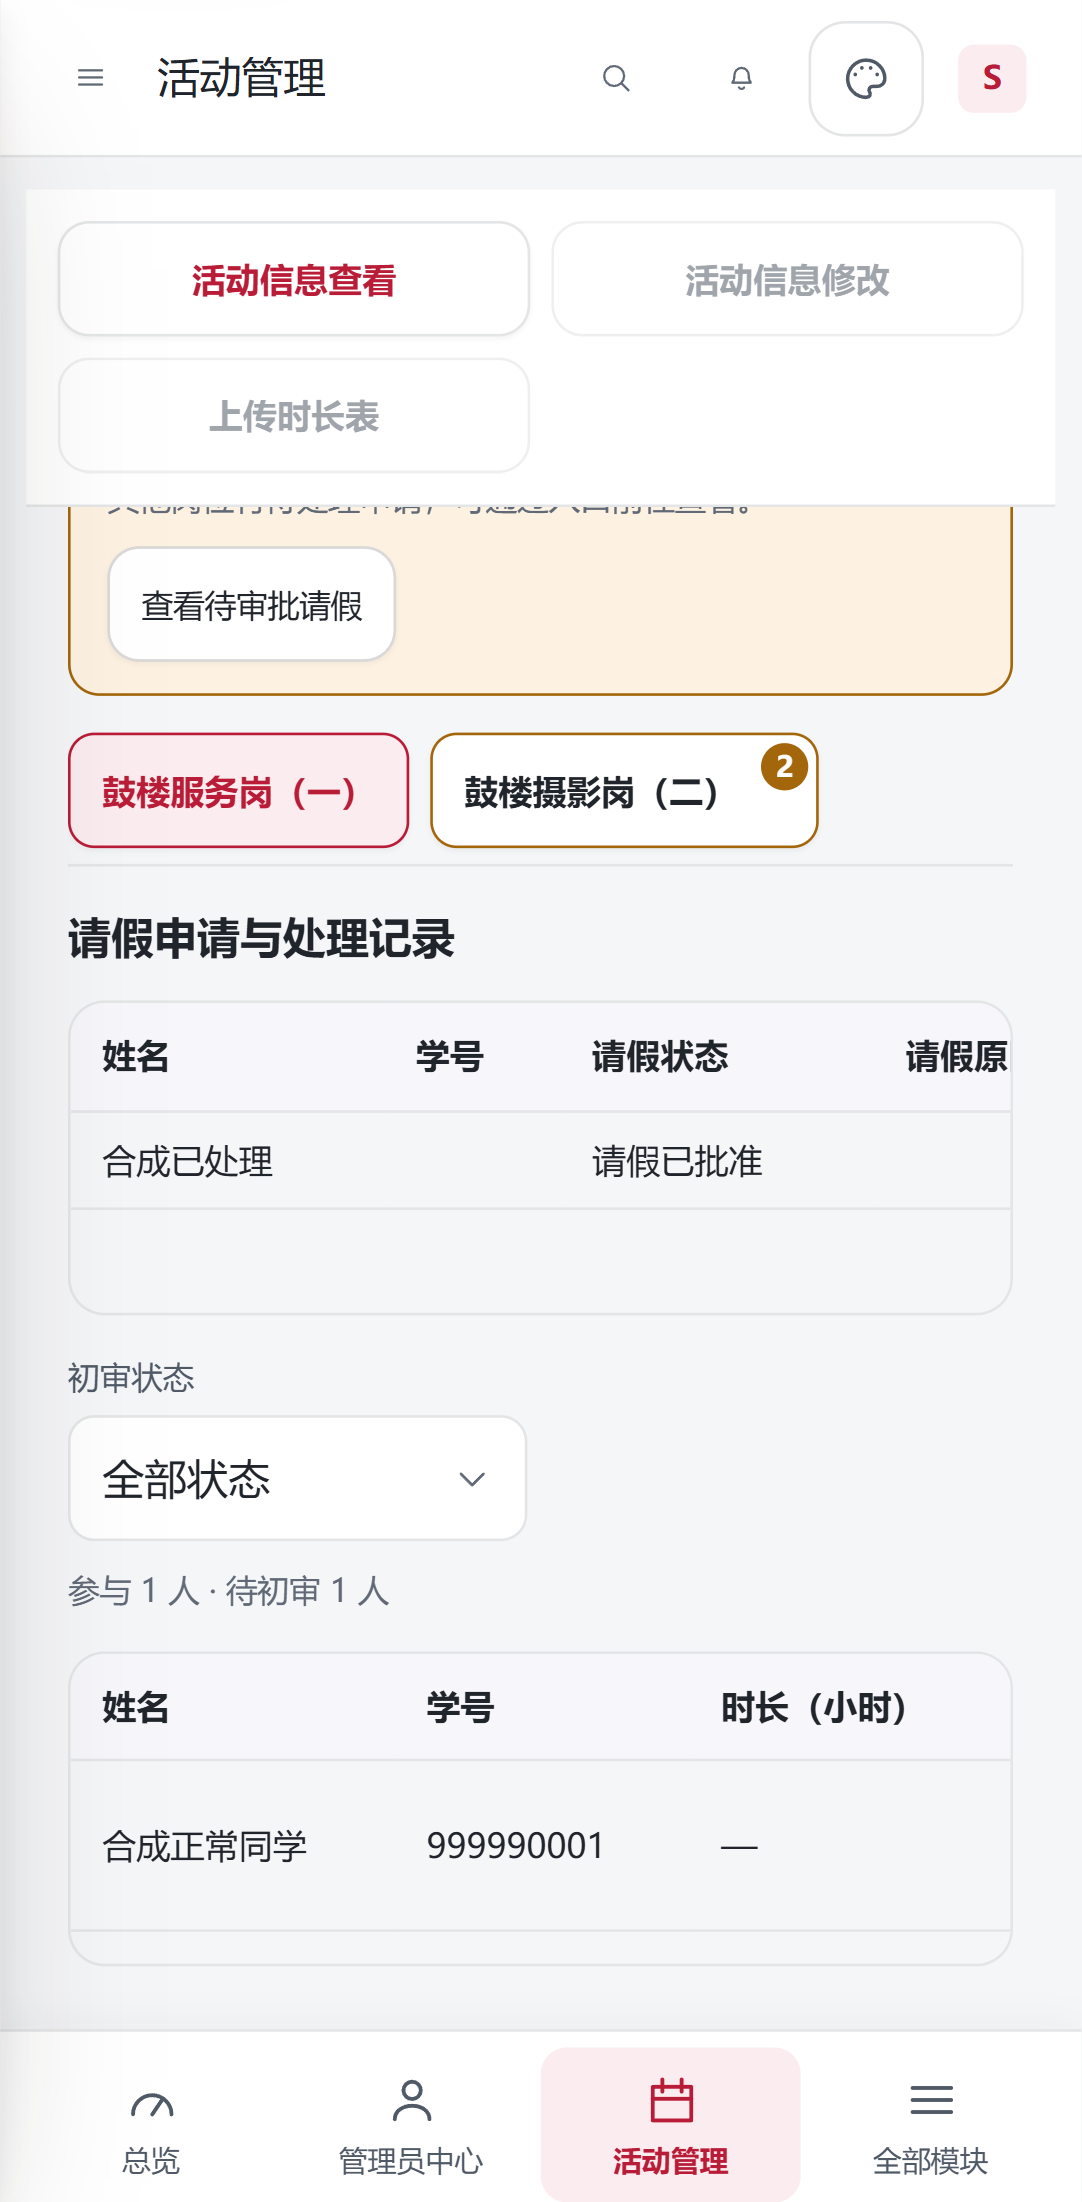
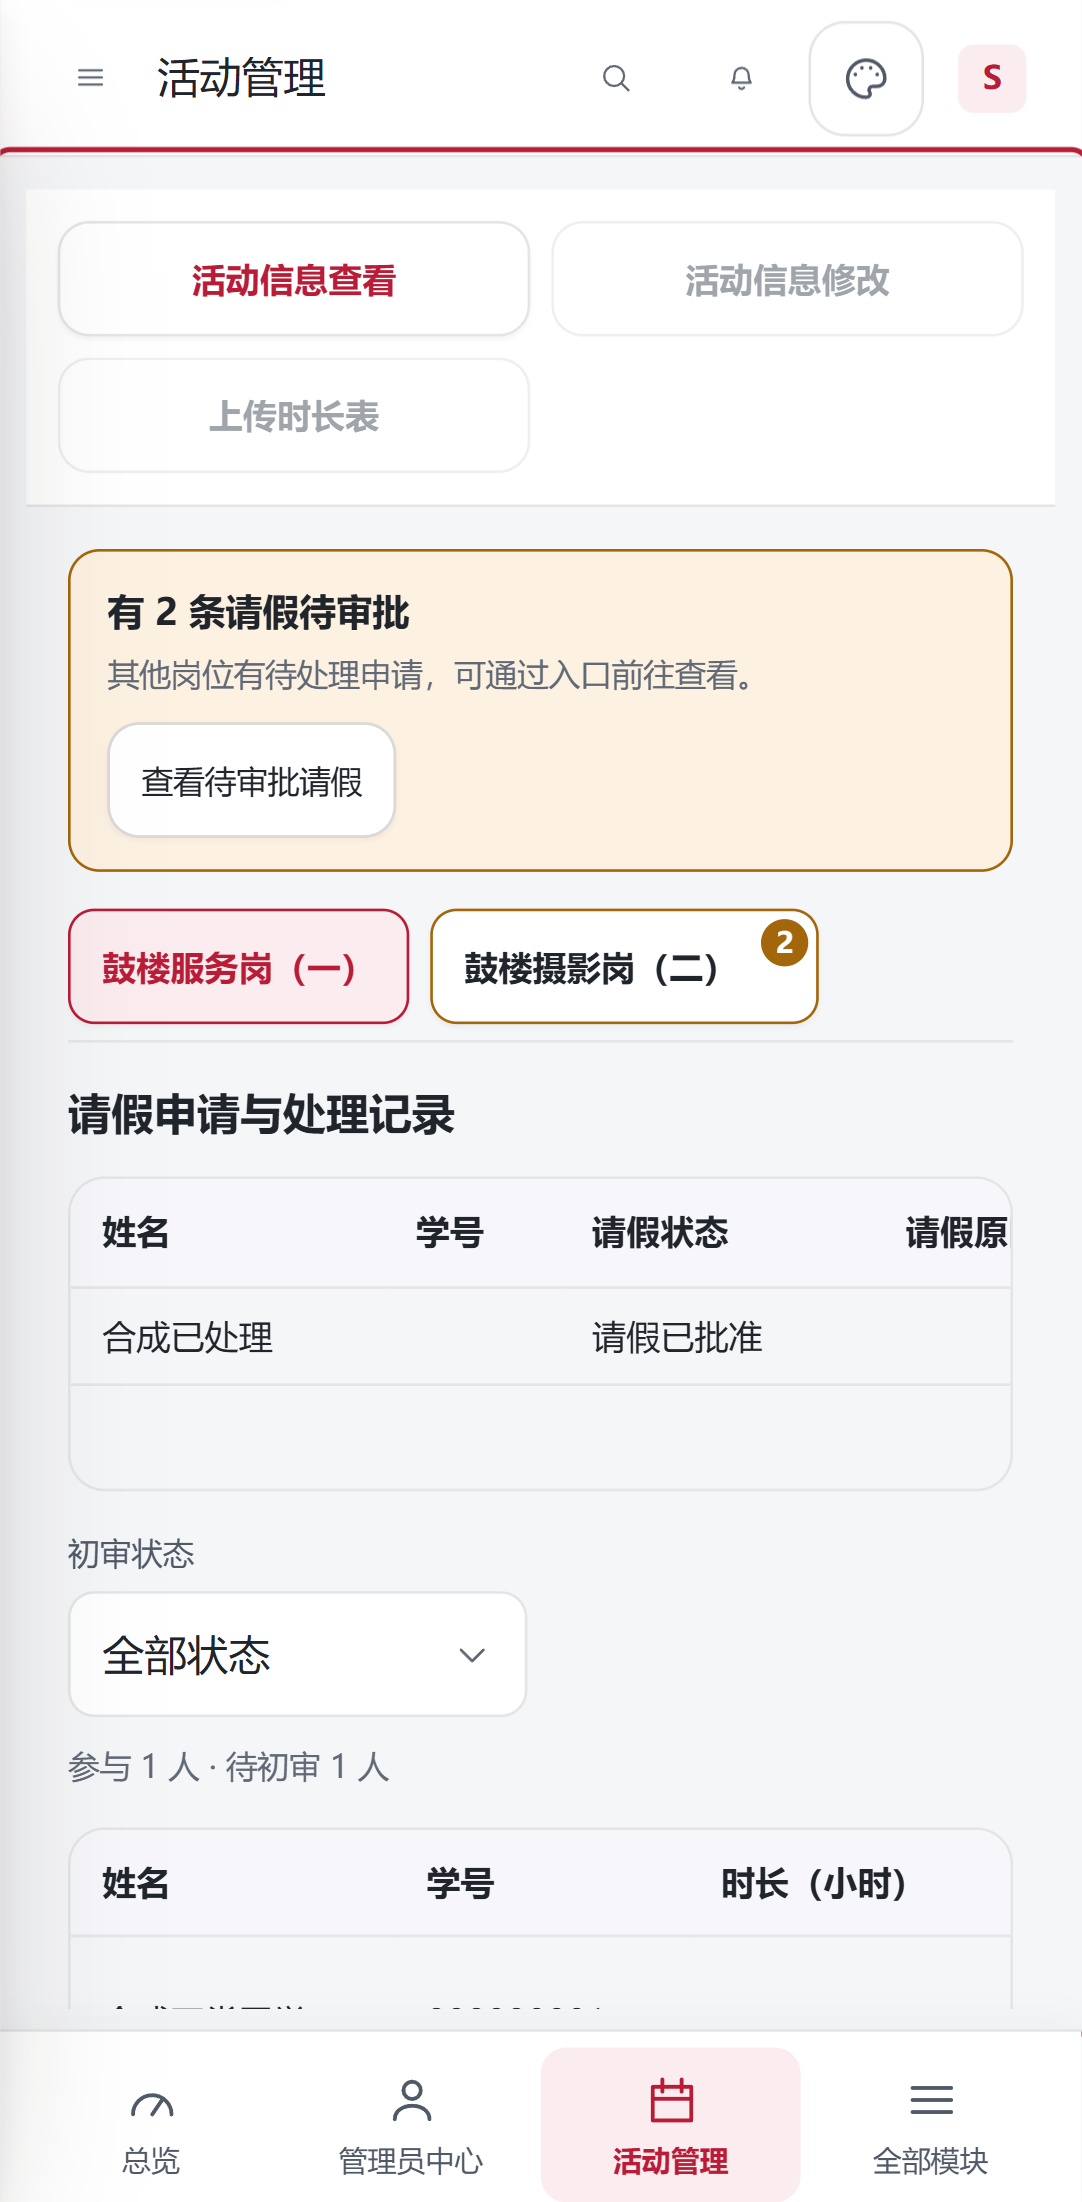
test(console): capture initial running leave reminders

diff --git a/reports/PR28_MAIN_INTEGRATION_2026-10-25.md b/reports/PR28_MAIN_INTEGRATION_2026-10-25.md
@@ -25,7 +25,7 @@
 
 - `npm run verify`：退出码 0，语法、文档链接、lint、权限、身份和资料检查通过；Node 套件 2605 项通过，0 失败。
 - Edge 桌面和手机：26 项全部通过，覆盖新增进行中提示、只读与单岗位、审批成功和失败，以及 main 的报名筛选、请假提示、原因展示、邮件详情与再次通知。
-- 仅调整截图采集时点后，新增进行中回归另跑 6 项全部通过。
+- 仅调整截图采集时点后，新增进行中回归另跑 6 项全部通过；最终初始页面截图对应的桌面/手机两项再跑通过。
 - 本地合成演示初始化与页面 HTTP 检查通过，使用临时端口，检查结束自动关闭。
 - 报名页面及原有测试相对 main 无差异；`git diff --check` 通过。
 
